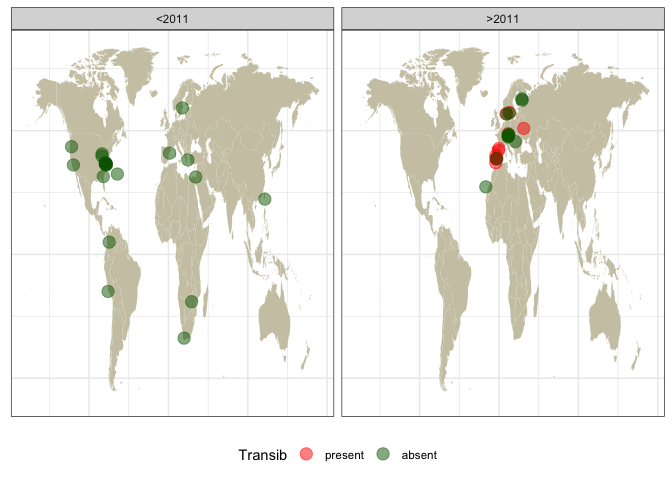
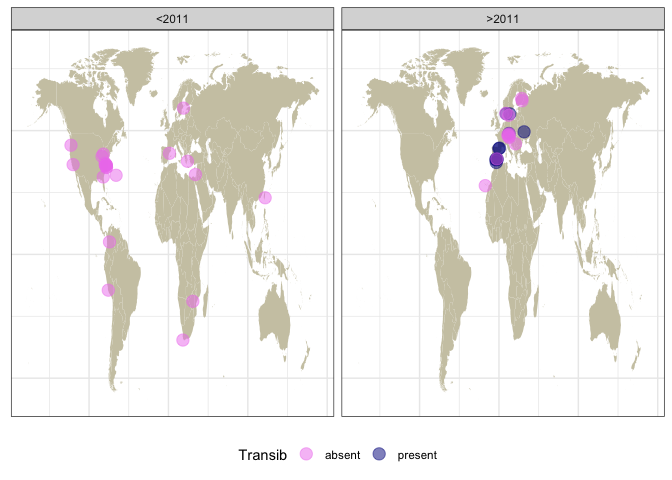
Color change LR
Changed color for presence-absence in LR (pink-blue), to differentiate from new snps freq in short reads (green-red)

diff --git a/documentation/RepeatMasker-dmelLR.md b/documentation/RepeatMasker-dmelLR.md
@@ -37,6 +37,10 @@ RM <- read_tsv("/Volumes/Storage/dmel-full-story/RepeatMasker/RM-longreads/merge
     ## ℹ Specify the column types or set `show_col_types = FALSE` to quiet this message.
 
 ``` r
+write_tsv(RM, "/Volumes/Storage/GitHub/Dmel-200years/data/RM-readable.tsv")
+```
+
+``` r
 RM_full_len <- RM %>% filter(!(te %in% c("Hobo","PPI251","Transib_Riccardo"))) %>% select(strain, te, SW, pid, len, score, year) %>% filter(score > 0.8, pid < 1)
 RM_DNA_TE <- RM %>% filter(te %in% c("Hobo","Transib_Riccardo","PPI251")) %>% select(strain, te, SW, pid, len, score, year) %>% filter(score > 0.5, pid < 1)
 RM_P <- RM %>% filter(te == "PPI251") %>% select(strain, te, SW, pid, len, score, year) %>% filter(score > 0.25, pid < 1)
@@ -59,9 +63,9 @@ RM_plottable$te <- factor(RM_plottable$te, levels = c("Blood", "Opus", "412", "T
 
 insertions_plot <- ggplot(RM_plottable, aes(x=reorder(strain,year), y=insertions, fill=presence))+
   geom_bar(stat = "identity")+
-    labs(x="", y="copynumber")+
+    labs(x="", y="copynumber", fill="TE")+
     facet_wrap(~te, ncol=1)+
-scale_fill_manual(values = c("darkgreen", "red"))+
+scale_fill_manual(values = c("violet", "darkblue"))+
     theme(axis.text.x = element_text(angle = 90, vjust = 0.5, hjust=1, size=4), legend.position = "top", legend.key.size = unit(0.2, "cm"))
 
 ggsave("/Volumes/Storage/dmel-full-story/figures/LR-08.png", insertions_plot, height = 20)
@@ -71,38 +75,21 @@ ggsave("/Volumes/Storage/dmel-full-story/figures/LR-08.png", insertions_plot, he
 
 ``` r
 to_map <- RM_plottable %>% inner_join(dmel_lr_meta, by=c("strain","year")) %>% ungroup()
-to_map$presence <- factor(to_map$presence, levels = c("present", "absent"))
+to_map$presence <- factor(to_map$presence, levels = c("absent", "present"))
 
 world_map <- map_data("world")
 world_map <- subset(world_map, region != "Antarctica")
 
 tomap_sous <- to_map %>% filter(te == "Souslik") %>% mutate(year = ifelse(year > 2003, ">2003", "<2003"))
 tomap_tra <- to_map %>% filter(te == "Transib1") %>% mutate(year = ifelse(year > 2011, ">2011", "<2011"))
-(tomap_mic <- to_map %>% filter(te == "Micropia") %>% mutate(year = ifelse(year > 1995, ">1995", "<1995")))
-```
+tomap_mic <- to_map %>% filter(te == "Micropia") %>% mutate(year = ifelse(year > 1995, ">1995", "<1995"))
 
-    ## # A tibble: 47 × 8
-    ##    strain te       year  insertions presence continent   lat   lon
-    ##    <chr>  <fct>    <chr>      <dbl> <fct>    <chr>     <dbl> <dbl>
-    ##  1 AKA017 Micropia >1995          9 present  Europe       62    29
-    ##  2 AKA018 Micropia >1995         12 present  Europe       62    29
-    ##  3 COR014 Micropia >1995         12 present  Europe       38    -3
-    ##  4 COR018 Micropia >1995         13 present  Europe       38    -3
-    ##  5 COR023 Micropia >1995         10 present  Europe       38    -3
-    ##  6 COR025 Micropia >1995         12 present  Europe       38    -3
-    ##  7 GIM012 Micropia >1995          6 present  Europe       42     0
-    ##  8 GIM024 Micropia >1995         10 present  Europe       42     0
-    ##  9 JUT008 Micropia >1995          9 present  Europe       56     9
-    ## 10 JUT011 Micropia >1995         10 present  Europe       56     9
-    ## # ℹ 37 more rows
-
-``` r
 (lr_map_sous <- ggplot() +
     geom_map(data = world_map, map = world_map,
              aes(long, lat, map_id = region),
              color = "white", fill = "cornsilk3", linewidth = 0) +
    geom_point(data = tomap_sous, aes(x = lon, y = lat, color = presence), size = 4, position = position_jitter(width = 1, height = 1), alpha = 0.5)) +
-   scale_colour_manual(values = c("red", "darkgreen")) +
+   scale_colour_manual(values = c("violet", "darkblue")) +
   theme(axis.text = element_blank(), axis.title = element_blank(), axis.ticks = element_blank(), legend.position = "bottom") +
   facet_wrap(~year)+
   labs(color = "Souslik")
@@ -121,7 +108,7 @@ tomap_tra <- to_map %>% filter(te == "Transib1") %>% mutate(year = ifelse(year >
              aes(long, lat, map_id = region),
              color = "white", fill = "cornsilk3", linewidth = 0) +
    geom_point(data = tomap_tra, aes(x = lon, y = lat, color = presence), size = 4, position = position_jitter(width = 1, height = 1), alpha = 0.5)) +
-   scale_colour_manual(values = c("red", "darkgreen")) +
+   scale_colour_manual(values = c("violet", "darkblue")) +
   theme(axis.text = element_blank(), axis.title = element_blank(), axis.ticks = element_blank(), legend.position = "bottom") +
   facet_wrap(~year)+
   labs(color = "Transib")
@@ -138,7 +125,7 @@ tomap_tra <- to_map %>% filter(te == "Transib1") %>% mutate(year = ifelse(year >
              aes(long, lat, map_id = region),
              color = "white", fill = "cornsilk3", linewidth = 0) +
    geom_point(data = tomap_mic, aes(x = lon, y = lat, color = presence), size = 4, position = position_jitter(width = 1, height = 1), alpha = 0.5)) +
-   scale_colour_manual(values = c("red", "darkgreen")) +
+   scale_colour_manual(values = c("violet", "darkblue")) +
   theme(axis.text = element_blank(), axis.title = element_blank(), axis.ticks = element_blank(), legend.position = "bottom") +
   facet_wrap(~year)+
   labs(color = "Micropia")
